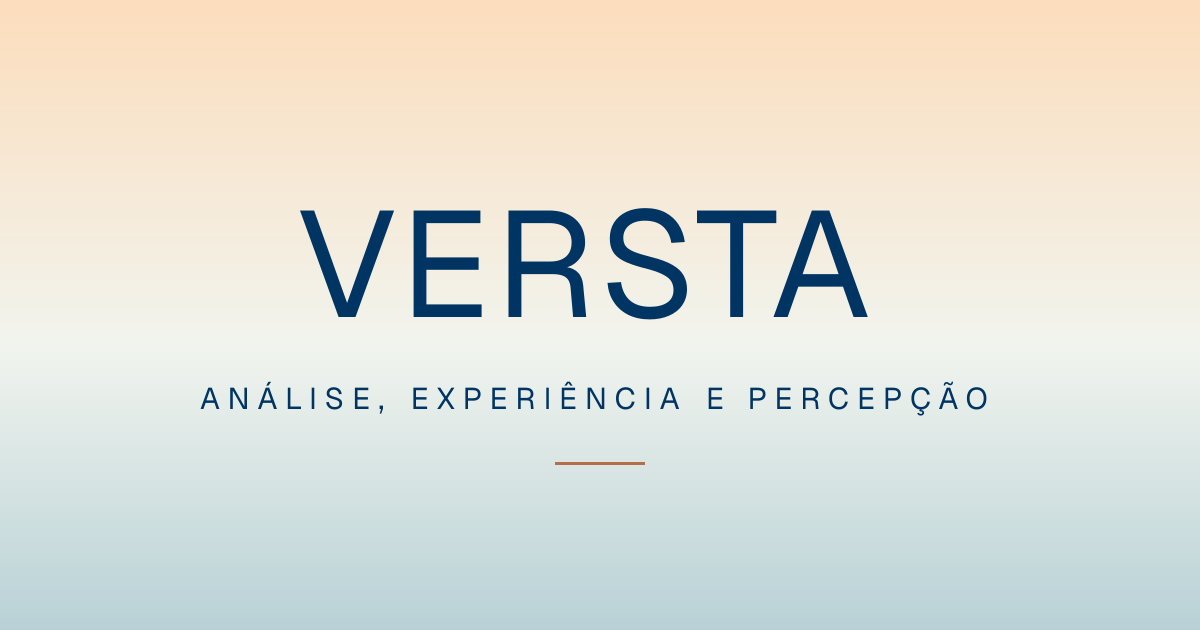
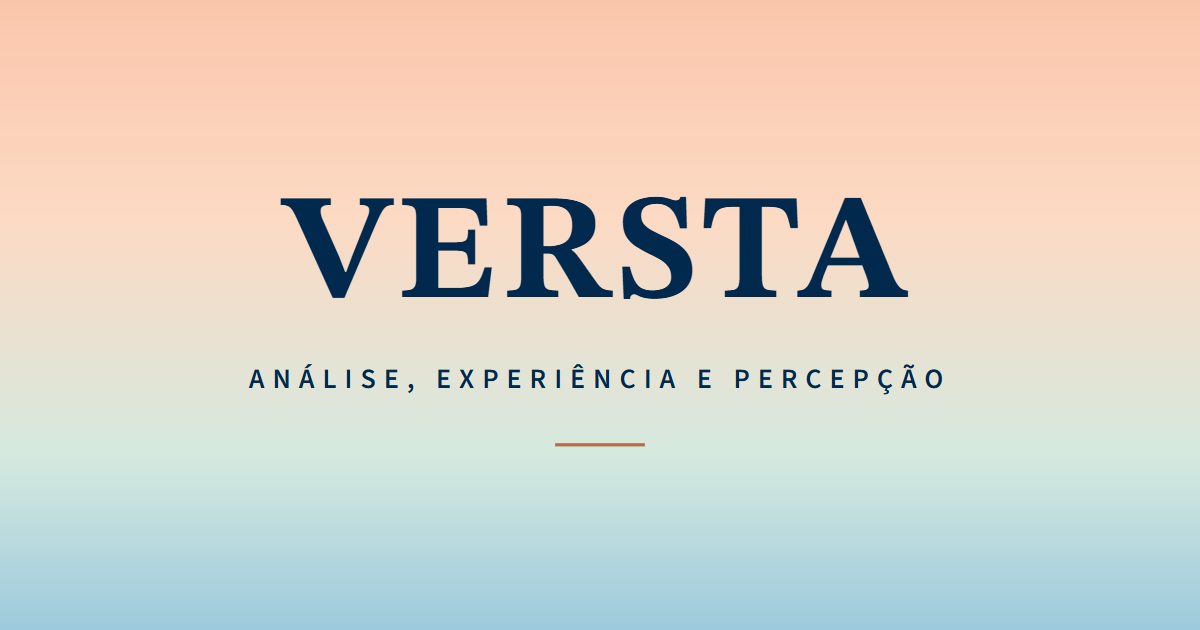
Aplica as cores oficiais da marca Versta
- Tokens atualizados com os valores do documento oficial de cores
  (hex, Pantone e CMYK registrados em app/globals.css)
- Novo verde menta claro (#D6E9DF), usado no CTA final e no texto de
  apoio sobre fundos escuros
- Céu da intro, favicon, cor do navegador e imagem de compartilhamento
  refeitos com a paleta oficial
- Ajustes de contraste (caramelo de apoio e marcações [PREENCHER])

Changed region(s): [[0.0, 0.3016, 1.0, 0.6635], [0.0, 0.9349, 1.0, 1.0], [0.4625, 0.6937, 0.5242, 0.754]]

diff --git a/app/globals.css b/app/globals.css
@@ -3,34 +3,49 @@
 /* =========================================================================
    TOKENS DA MARCA VERSTA
    -------------------------------------------------------------------------
-   ⚠ Valores aproximados, conferidos por amostragem nas imagens do manual
-   (pasta "Identidade visual"). CONFIRMAR com o manual da marca antes do
-   lançamento. Referências de impressão informadas no manual:
-     - Azul marinho: Pantone P 108-16 C — CMYK 100/55/0/70
-     - Caramelo:     Pantone P 42-14 C  — CMYK 11/56/66/26
+   Cores OFICIAIS, conforme o documento "VERSTA - cores - FINAL.pdf".
    Todas as cores do site saem daqui. Para ajustar, altere apenas este bloco.
+
+   Principais
+     Azul-marinho  #00294D  Pantone P 108-16 C (70% de preto)  CMYK 100/55/0/70
+     Caramelo      #B46D49  Pantone P 42-14 C                  CMYK 11/56/66/26
+   Secundárias
+     Pêssego claro #FCDAC4  Pantone P 37-2 C    CMYK 0/19/24/0
+     Pêssego       #FAC6AB  Pantone P 37-3 C    CMYK 0/29/33/0
+     Verde escuro  #006955  Pantone P 135-15 C  CMYK 84/13/61/43
+     Verde médio   #539282  Pantone P 135-13 C  CMYK 66/17/48/17
+     Verde sálvia  #9BBBAA  Pantone P 135-3 C   CMYK 44/13/36/3
+     Verde menta   #D6E9DF  Pantone P 127-9 C   CMYK 20/1/16/0
+     Azul claro    #9CCADC  Pantone P 119-3 C   CMYK 43/8/12/0
+     Azul          #75BAD4  Pantone P 119-4 C   CMYK 56/10/13/1
+
+   Não oficiais (apoio, fora do PDF): off-white de fundo, caramelo-700 e
+   ink-muted — mantidos por legibilidade/acessibilidade.
    ========================================================================= */
 @theme {
   /* Principais */
-  --color-navy: #003462;          /* experiência, estabilidade, seriedade */
-  --color-caramel: #b36e4a;       /* acento: símbolo, detalhes, CTAs pontuais */
-  /* Derivado para acessibilidade: caramelo escurecido para texto pequeno,
-     links e botões (contraste ≥ 5:1 no off-white e com texto branco).
-     O caramelo original tem ~3,6:1 e só vale para texto grande/decoração. */
-  --color-caramel-700: #95583a;
+  --color-navy: #00294d;          /* experiência, estabilidade, seriedade */
+  --color-caramel: #b46d49;       /* acento: símbolo, detalhes, CTAs pontuais */
+  /* Apoio (acessibilidade): caramelo escurecido para texto pequeno, links e
+     botões (≥ 5:1 no off-white e com texto branco). O caramelo oficial tem
+     ~3,6:1 e só vale para texto grande, ícones, linhas e decoração. */
+  --color-caramel-700: #8c5236;   /* ≥ 4,7:1 no pêssego claro, menta e off-white */
 
-  /* Secundárias (pastéis) */
-  --color-offwhite: #f1f4ee;      /* fundo principal */
-  --color-peach-100: #fcddbc;
-  --color-peach-200: #fdcca2;
-  --color-green-900: #315b50;
-  --color-green-700: #467566;
-  --color-sage: #8fb19c;
-  --color-mist: #b8d1d6;
-  --color-sky: #96bad0;
+  /* Secundárias oficiais */
+  --color-peach-100: #fcdac4;     /* pêssego claro */
+  --color-peach-200: #fac6ab;     /* pêssego */
+  --color-green-900: #006955;     /* verde escuro */
+  --color-green-700: #539282;     /* verde médio (não usar sob texto claro pequeno: 3,6:1) */
+  --color-sage: #9bbbaa;          /* verde sálvia */
+  --color-mint: #d6e9df;          /* verde menta claro */
+  --color-mist: #9ccadc;          /* azul claro */
+  --color-sky: #75bad4;           /* azul */
+
+  /* Apoio: fundo principal neutro (não consta no PDF) */
+  --color-offwhite: #f1f4ee;
 
   /* Papéis de texto (derivados do marinho) */
-  --color-ink: #003462;
+  --color-ink: #00294d;
   --color-ink-muted: #3e5670;     /* ≥ 5,9:1 no off-white e pêssego claro */
 
   /* Tipografia — as variáveis --font-stix / --font-source-sans vêm do
@@ -160,9 +175,9 @@
     box-decoration-break: clone;
   }
   .on-dark .todo-mark {
-    background: color-mix(in srgb, var(--color-peach-100) 18%, transparent);
+    background: color-mix(in srgb, var(--color-peach-100) 14%, transparent);
     border-bottom-color: var(--color-peach-100);
-    color: var(--color-peach-100);
+    color: #ffffff; /* branco: passa AA no verde escuro e no marinho */
   }
 }
 
@@ -213,15 +228,16 @@
     min-height: 0;
   }
 
-  /* Céu em degradê: dá contraste às nuvens brancas e some revelando a paisagem */
+  /* Céu em degradê (cores oficiais): dá contraste às nuvens brancas e some
+     revelando a paisagem */
   .intro-sky {
     display: block;
     background: linear-gradient(
       180deg,
-      #f6d6b8 0%,
-      #f5e4d3 38%,
-      #dfe6e2 70%,
-      #c3d7dc 100%
+      var(--color-peach-200) 0%,
+      var(--color-peach-100) 32%,
+      var(--color-mint) 68%,
+      var(--color-mist) 100%
     );
     opacity: calc(1 - var(--sky));
   }

diff --git a/app/design/page.tsx b/app/design/page.tsx
@@ -21,18 +21,20 @@ export const metadata: Metadata = pageMetadata({
   noindex: true,
 });
 
+/* Cores oficiais ("VERSTA - cores - FINAL.pdf") + apoio. Espelha app/globals.css. */
 const cores = [
-  { nome: "navy", hex: "#003462", uso: "Títulos, texto, rodapé, seções de peso", text: "text-white" },
-  { nome: "caramel", hex: "#B36E4A", uso: "Acento: símbolo e detalhes (não usar em texto pequeno)", text: "text-white" },
-  { nome: "caramel-700", hex: "#95583A", uso: "Derivado AA: links e botões de acento", text: "text-white" },
-  { nome: "offwhite", hex: "#F1F4EE", uso: "Fundo principal", text: "text-navy" },
-  { nome: "peach-100", hex: "#FCDDBC", uso: "Fundos alternados e cards", text: "text-navy" },
-  { nome: "peach-200", hex: "#FDCCA2", uso: "Fundos alternados e cards", text: "text-navy" },
-  { nome: "green-900", hex: "#315B50", uso: "Fundos escuros alternativos", text: "text-white" },
-  { nome: "green-700", hex: "#467566", uso: "Seções de destaque (texto branco)", text: "text-white" },
-  { nome: "sage", hex: "#8FB19C", uso: "Fundos e cards (texto marinho)", text: "text-navy" },
-  { nome: "mist", hex: "#B8D1D6", uso: "Fundos e texto secundário no azul", text: "text-navy" },
-  { nome: "sky", hex: "#96BAD0", uso: "Fundos (texto marinho)", text: "text-navy" },
+  { nome: "navy · Azul-marinho", hex: "#00294D", uso: "Pantone P 108-16 C · títulos, texto, rodapé, seções de peso", text: "text-white" },
+  { nome: "caramel · Caramelo", hex: "#B46D49", uso: "Pantone P 42-14 C · acento: símbolo, ícones, linhas (não em texto pequeno)", text: "text-white" },
+  { nome: "peach-100 · Pêssego claro", hex: "#FCDAC4", uso: "Pantone P 37-2 C · fundos alternados e cards", text: "text-navy" },
+  { nome: "peach-200 · Pêssego", hex: "#FAC6AB", uso: "Pantone P 37-3 C · fundos e céu da intro", text: "text-navy" },
+  { nome: "green-900 · Verde escuro", hex: "#006955", uso: "Pantone P 135-15 C · seções escuras (texto claro)", text: "text-white" },
+  { nome: "green-700 · Verde médio", hex: "#539282", uso: "Pantone P 135-13 C · detalhes (evitar texto claro pequeno)", text: "text-white" },
+  { nome: "sage · Verde sálvia", hex: "#9BBBAA", uso: "Pantone P 135-3 C · fundos e cards (texto marinho)", text: "text-navy" },
+  { nome: "mint · Verde menta", hex: "#D6E9DF", uso: "Pantone P 127-9 C · fundo do CTA, texto de apoio no escuro", text: "text-navy" },
+  { nome: "mist · Azul claro", hex: "#9CCADC", uso: "Pantone P 119-3 C · fundos, texto secundário no marinho", text: "text-navy" },
+  { nome: "sky · Azul", hex: "#75BAD4", uso: "Pantone P 119-4 C · fundos (texto marinho)", text: "text-navy" },
+  { nome: "offwhite · apoio", hex: "#F1F4EE", uso: "Fora do PDF · fundo principal neutro", text: "text-navy" },
+  { nome: "caramel-700 · apoio", hex: "#8C5236", uso: "Fora do PDF · links e botões com texto pequeno (AA)", text: "text-white" },
 ];
 
 export default function DesignPage() {

diff --git a/components/layout/Header.tsx b/components/layout/Header.tsx
@@ -40,7 +40,7 @@ export function Header() {
         aria-hidden="true"
         className={`absolute inset-0 -z-10 transition-[background-color,box-shadow] duration-500 ${
           scrolled || mobileOpen
-            ? "bg-offwhite/95 shadow-[0_1px_0_rgb(0_52_98/0.08)] backdrop-blur-md"
+            ? "bg-offwhite/95 shadow-[0_1px_0_rgb(0_41_77/0.08)] backdrop-blur-md"
             : "bg-offwhite/0"
         }`}
       />
@@ -167,7 +167,7 @@ function FrentesDropdown({ active }: { active: boolean }) {
         hidden={!open}
         className="absolute top-full left-1/2 w-[34rem] -translate-x-1/2 pt-3"
       >
-        <div className="rounded-card border border-navy/10 bg-offwhite p-3 shadow-[0_24px_60px_-24px_rgb(0_52_98/0.28)]">
+        <div className="rounded-card border border-navy/10 bg-offwhite p-3 shadow-[0_24px_60px_-24px_rgb(0_41_77/0.28)]">
           <Link
             href="/consultoria"
             className="mb-2 flex items-center justify-between rounded-button bg-peach-100 px-4 py-3 text-sm font-semibold text-navy transition-colors hover:bg-peach-200"

diff --git a/components/ui/Section.tsx b/components/ui/Section.tsx
@@ -6,6 +6,7 @@ export type SectionTone =
   | "peach-strong"
   | "mist"
   | "sage"
+  | "mint"
   | "green"
   | "forest"
   | "navy";
@@ -16,6 +17,8 @@ const tones: Record<SectionTone, string> = {
   "peach-strong": "bg-peach-200 text-ink",
   mist: "bg-mist/60 text-ink",
   sage: "bg-sage/45 text-ink",
+  /** Verde menta claro oficial (#D6E9DF). */
+  mint: "bg-mint text-ink",
   green: "bg-green-700 text-offwhite on-dark",
   /** Verde escuro da paleta: permite texto pequeno claro com contraste AA. */
   forest: "bg-green-900 text-offwhite on-dark",

diff --git a/components/sections/CtaBanner.tsx b/components/sections/CtaBanner.tsx
@@ -21,7 +21,7 @@ export function CtaBanner({
   headingLevel: H = "h2",
 }: Props) {
   return (
-    <Section tone="sage" aria-labelledby="cta-titulo">
+    <Section tone="mint" aria-labelledby="cta-titulo">
       <Container>
         <div className="grid overflow-hidden rounded-card bg-offwhite/60 lg:grid-cols-2">
           <Reveal className="flex flex-col justify-center p-8 md:p-14">

diff --git a/components/ui/SectionHeading.tsx b/components/ui/SectionHeading.tsx
@@ -51,7 +51,7 @@ export function SectionHeading({
       {lead && (
         <p
           className={`mt-5 text-lead ${center ? "mx-auto" : ""} max-w-2xl ${
-            onDark ? "text-mist" : "text-ink-muted"
+            onDark ? "text-mint" : "text-ink-muted"
           }`}
         >
           <Texto>{lead}</Texto>

diff --git a/app/layout.tsx b/app/layout.tsx
@@ -43,7 +43,7 @@ export const metadata: Metadata = {
 };
 
 export const viewport: Viewport = {
-  themeColor: "#003462",
+  themeColor: "#00294d",
 };
 
 export default function RootLayout({ children }: LayoutProps<"/">) {
